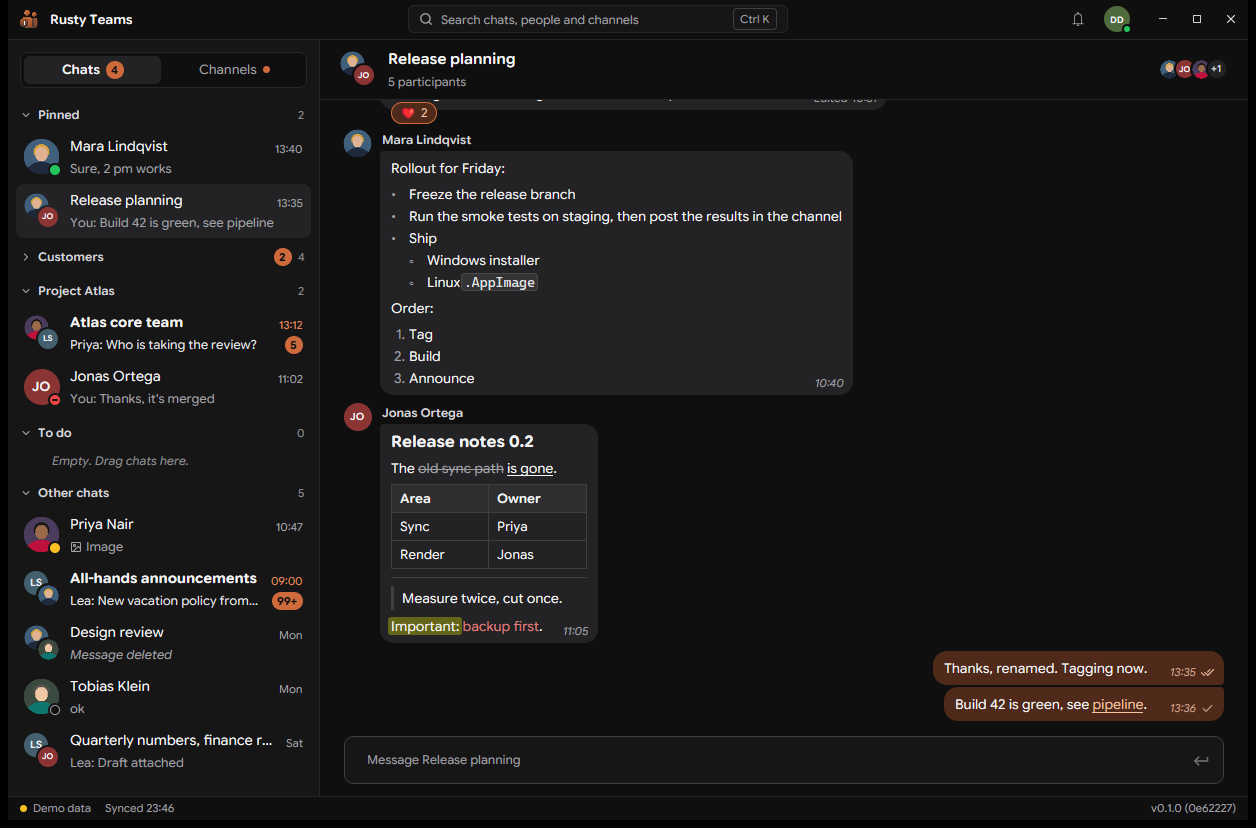
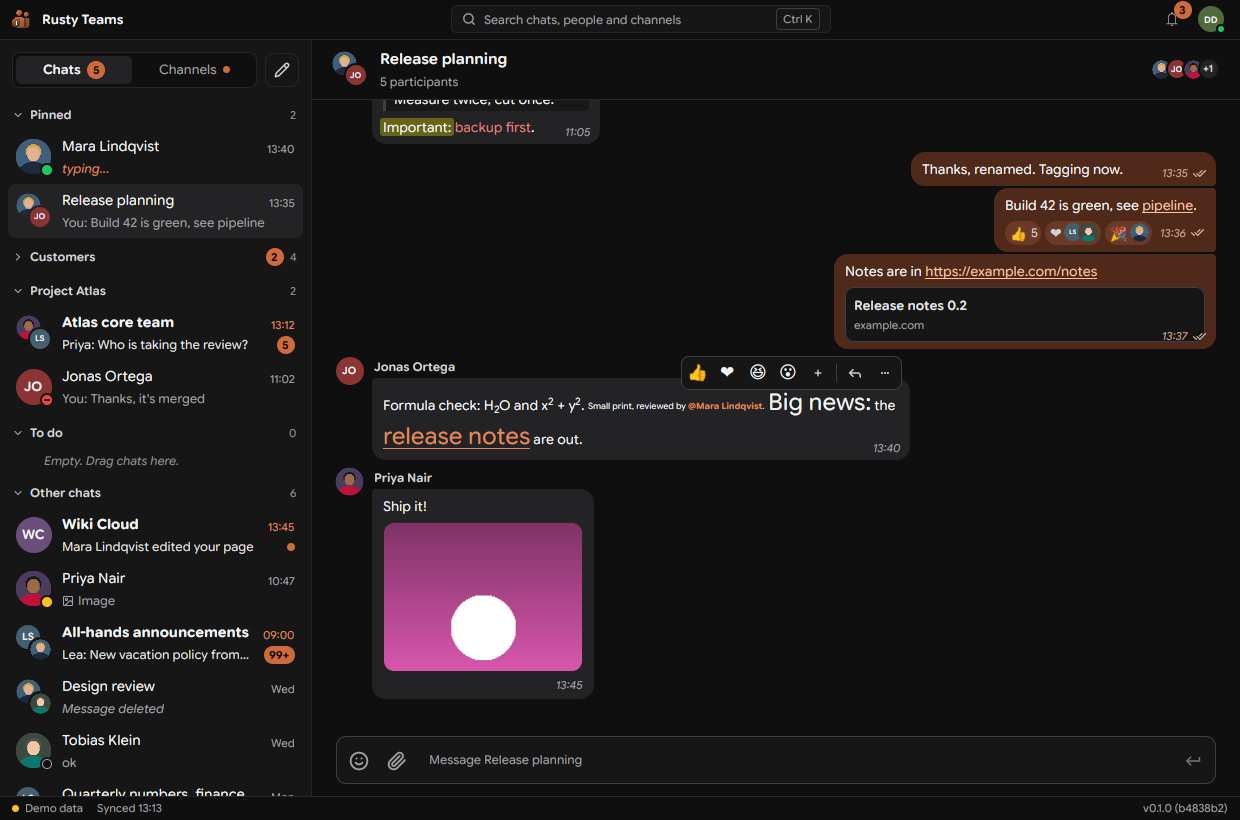
docs(readme): modern landing-page layout and a fresh demo screenshot

diff --git a/README.md b/README.md
@@ -1,38 +1,85 @@
+<div align="center">
+
+<img src="crates/app/assets/icon/teams-fast-256.png" alt="Rusty Teams logo" width="112">
+
 # Rusty Teams
 
-A fast native Microsoft Teams chat client written in Rust with [GPUI](https://www.gpui.rs/).
-It does chats and channels. Calls, meetings and channel tabs are planned (see [ROADMAP.md](ROADMAP.md)).
+**A fast, native Microsoft Teams chat client. Written in Rust, rendered on the GPU.**
 
-![Rusty Teams with demo data](.github/app-demo.png)
+[![Rust](https://img.shields.io/badge/Rust-2024-dea584?logo=rust&logoColor=white)](https://www.rust-lang.org/)
+[![GPUI](https://img.shields.io/badge/UI-GPUI-c4642d)](https://www.gpui.rs/)
+[![Platform](https://img.shields.io/badge/platform-Windows%20%7C%20Linux-3b3b3b)](#status)
+[![License: MIT](https://img.shields.io/badge/license-MIT-2ea043)](LICENSE)
 
+[Features](#features) · [Quick start](#quick-start) · [How it works](#how-it-works) · [Roadmap](ROADMAP.md)
+
+<img src=".github/app-demo.png" alt="Rusty Teams with demo data" width="900">
+
+</div>
+
+> [!NOTE]
 > Unofficial. Not affiliated with or endorsed by Microsoft. It uses the same web APIs as the Teams web app, which can change at any time.
+
+## Why
+
+| | Rusty Teams |
+|---|---|
+| ⚡ Starts instantly | Renders from a local SQLite cache before the network answers |
+| 🔒 No tokens stored | Signs in through a real Teams web page; tokens never leave it |
+| 📡 Live, no polling | Realtime socket pushes every change |
+| 🔎 Offline search | Full-text index over your chats, `Ctrl+K` switcher |
 
 ## Features
 
-- Chats and channels, with the Teams pin order, chat folders and hidden teams
+**Chats and channels**
+- Teams pin order, chat folders, hidden teams
 - Chat menu: pin, move to folder, mark as unread, mute, hide, leave
-- Live updates over the Teams realtime socket, no polling
+- Read receipts, typing indicator with faces, presence, unread jump
+- Activity bell: new messages, @mentions and reactions, kept for 14 days
+
+**Messages**
 - Send, edit, delete, react, quote-reply, @mentions
-- Rich text composer: format bar over a selection, `Ctrl+B` / `Ctrl+I` / `Ctrl+U`, lists, quotes, code; Markdown converts as you type or paste
-- Composer picker for emoji, GIFs and stickers; GIFs and stickers also show in messages
-- Schedule send: right-click the send button or `Ctrl+Shift+Enter`; Teams delivers the message, text and formatting only
-- Emoji by `:` code with English codes and German aliases, `:thumbsup:` and `:)` convert as you type
-- Link previews: card under messages, preview above the composer that goes out with the message
-- Inline images, file cards, Adaptive Cards (layout, links, images, buttons: submit, execute, show card, toggle; input fields; task dialogs)
-- Read receipts, typing indicator (shown and sent), presence (last known status shown at start), unread jump
-- Select and copy message text, `Ctrl+A` in the composer
-- Local full-text search and a `Ctrl+K` switcher, served from the cache
-- Activity bell: feed of new messages, @mentions and reactions to your messages, kept for 14 days
-- Dark theme, opens instantly from the local cache
+- Inline images, file cards, link previews
+- Adaptive Cards: layout, links, images, buttons, inputs, task dialogs
+- GIFs and stickers in messages
+- Select and copy message text
+
+**Composer**
+- Rich text: format bar on selection, `Ctrl+B` / `Ctrl+I` / `Ctrl+U`, lists, quotes, code
+- Markdown converts as you type or paste
+- Picker with Emoji, GIF and Sticker tabs
+- `:thumbsup:` and `:)` convert as you type, German aliases included
+- Schedule send: right-click send or `Ctrl+Shift+Enter`
+- Drafts and unsent messages survive a restart
+
+**App**
+- Dark theme, opens instantly from the cache
 - Self-update from an update folder
-- Single instance: a second start brings the running window to the front
+- Single instance: a second start brings the window to the front
 
 ## Status
 
 | Platform | State |
 |---|---|
-| Windows | Main target. Login through an embedded WebView2 |
-| Linux | Connects to a Chrome you start with `--remote-debugging-port=9222`. Built-in login is planned |
+| 🪟 Windows | Main target. Login through an embedded WebView2 |
+| 🐧 Linux | Connects to a Chrome started with `--remote-debugging-port=9222`. Built-in login is planned |
+
+Calls, meetings and channel tabs are planned, see [ROADMAP.md](ROADMAP.md).
+
+## Quick start
+
+Try it with demo data, no account needed:
+
+```bash
+cargo run -p app -- --demo
+```
+
+| Task | Command |
+|---|---|
+| Against Chrome on a debug port | `cargo run -p app -- --endpoint http://127.0.0.1:9222` |
+| Windows exe from WSL/Linux | `scripts/build-windows.sh crates/app teams` |
+| Tests | `cargo test` |
+| Headless screenshot (Xvfb, xdotool, xclip, mesa-vulkan-drivers) | `cargo build -p app && scripts/headless-shot.sh shot.png -- "mousemove 450 740" "click 1" "type hello"` |
 
 ## How it works
 
@@ -57,14 +104,18 @@ It signs you in through a real Teams web page and lets that page make the API ca
                Graph  |  chat service (ic3)  |  presence  |  Trouter socket
 ```
 
-### Sign-in and tokens
+<details>
+<summary><b>Sign-in and tokens</b></summary>
 
 1. A hidden browser page loads Teams web with its own profile. On Windows this is WebView2, so single sign-on with the Windows account usually just works.
 2. If Teams asks for a login, the login window shows itself. After that the page stays parked in the background.
 3. Every API call is sent to that page over CDP. A small script (`crates/session/assets/fetch.js`) picks the matching token from the page's MSAL cache, refreshes it when needed, and runs the `fetch`.
 4. Only the response goes back to Rust. Tokens never leave the page.
 
-### Data flow
+</details>
+
+<details>
+<summary><b>Data flow</b></summary>
 
 | Step | What happens |
 |---|---|
@@ -74,7 +125,10 @@ It signs you in through a real Teams web page and lets that page make the API ca
 | Write | Sends, edits and reactions go out through Graph or the chat service, then the cache updates |
 | Search | Local FTS5 index over cached messages, no server round trip |
 
-### Crates
+</details>
+
+<details>
+<summary><b>Crates</b></summary>
 
 | Crate | Job |
 |---|---|
@@ -88,15 +142,7 @@ It signs you in through a real Teams web page and lets that page make the API ca
 | `browser` | Chrome lifecycle and watchdog for the CDP transport |
 | `cli` | `teams-probe`, a read-only end-to-end check |
 
-## Build and run
-
-| Task | Command |
-|---|---|
-| Demo data, no account | `cargo run -p app -- --demo` |
-| Against Chrome on a debug port | `cargo run -p app -- --endpoint http://127.0.0.1:9222` |
-| Windows exe from WSL/Linux | `scripts/build-windows.sh crates/app teams` |
-| Tests | `cargo test` |
-| Screenshot without a desktop (Xvfb, xdotool, xclip, mesa-vulkan-drivers) | `cargo build -p app && scripts/headless-shot.sh shot.png -- "mousemove 450 740" "click 1" "type hello"` |
+</details>
 
 ## Docs
 
